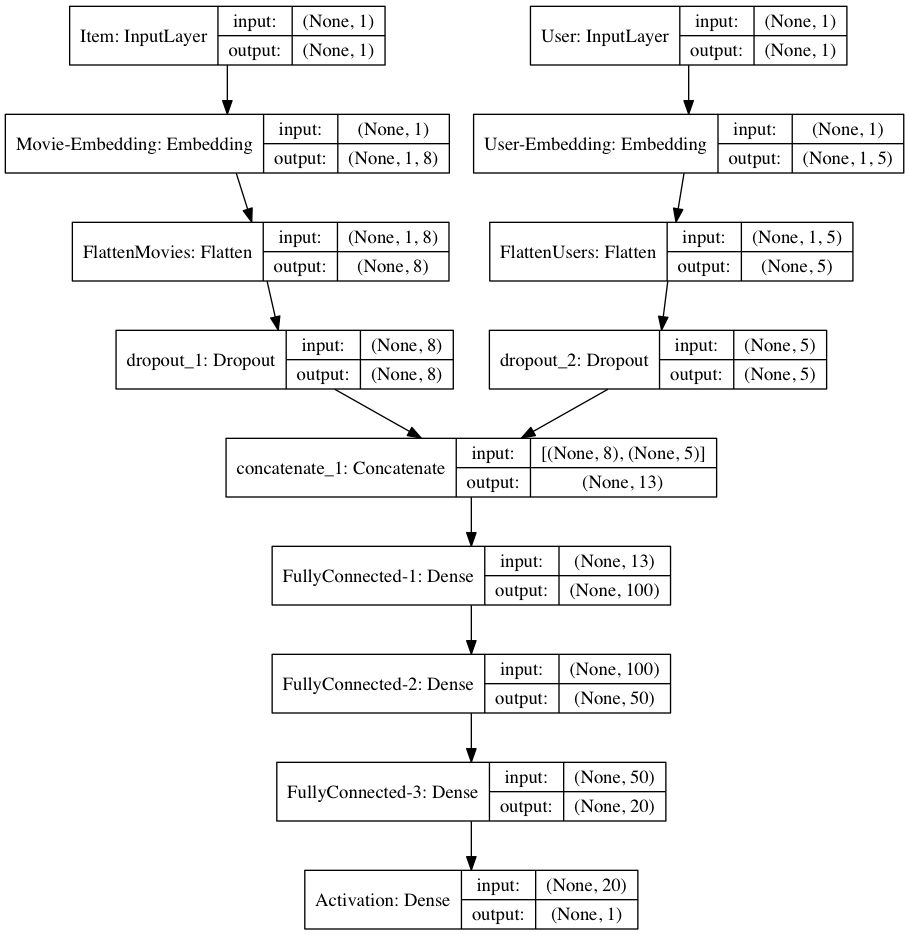
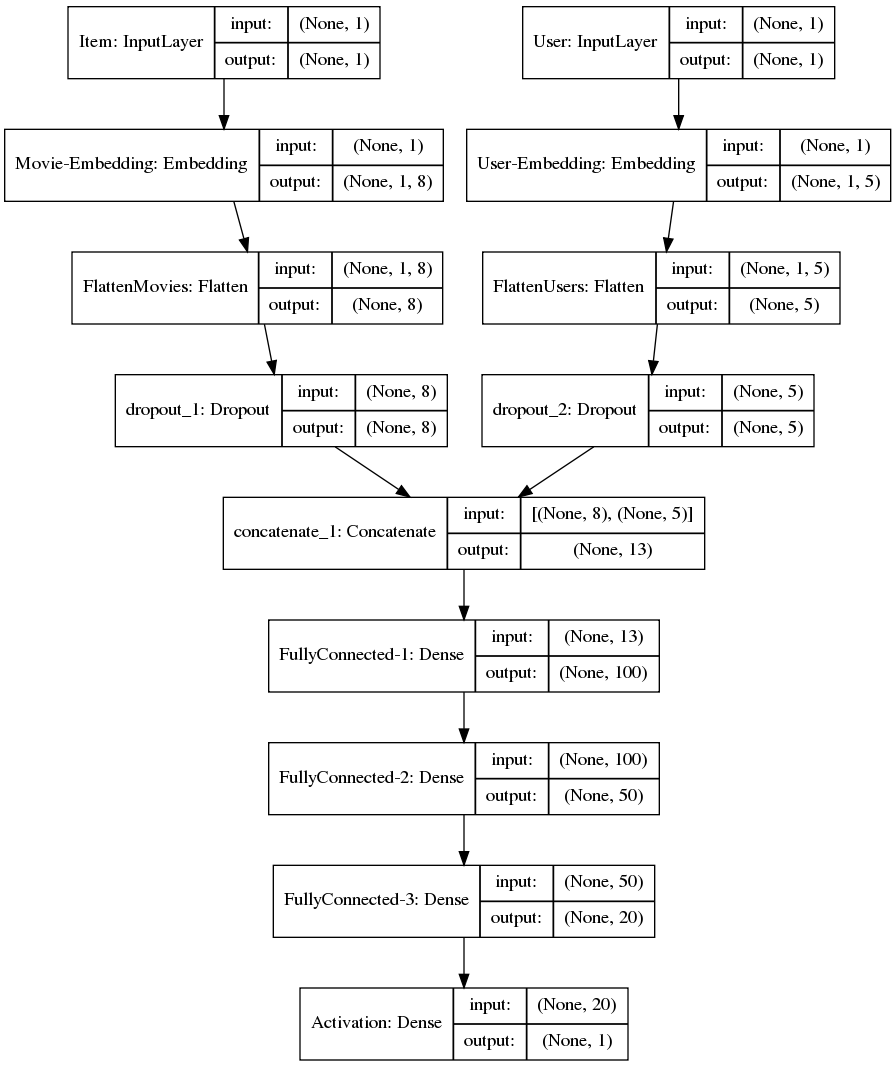
adding user model

Changed region(s): [[0.125, 0.2171, 0.9375, 1.0], [0.0, 0.0, 0.5, 0.3102], [0.5312, 0.0, 1.0, 0.1861]]

diff --git a/Code/train.py b/Code/train.py
@@ -1,0 +1,87 @@
+import pandas as pd
+from sklearn.model_selection import train_test_split
+from MF_nn import MF_nonnegative
+import numpy as np
+from sklearn.metrics import mean_absolute_error
+from sklearn.metrics import accuracy_score, f1_score, precision_score, recall_score
+from keras.utils import plot_model
+
+
+def loading_GHSO_data(path_file, name):
+    if name == "user_question":
+        dataset = pd.read_csv(path_file, sep=',',
+                              names="stackoverflow_user_id,stackoverflow_question_id,relevant".split(","))
+        dataset.stackoverflow_user_id = dataset.user_id.astype('category').cat.codes.values
+        dataset.stackoverflow_question_id = dataset.stackoverflow_question_id.astype('category').cat.codes.values
+
+        return dataset
+    elif name == "user_repository":
+        dataset = pd.read_csv(path_file, sep=',', names="github_user_id,github_repository_id,relevant".split(","))
+        return dataset
+    else:
+        print "Unknown data category"
+        exit()
+
+
+if __name__ == "__main__":
+    # dataset = pd.read_csv("./data/ml-100k/u.data", sep='\t', names="user_id,item_id,rating,timestamp".split(","))
+    # dataset.user_id = dataset.user_id.astype('category').cat.codes.values
+    # dataset.item_id = dataset.item_id.astype('category').cat.codes.values
+    # train, test = train_test_split(dataset, test_size=0.2)
+    # n_users, n_movies = len(dataset.user_id.unique()), len(dataset.item_id.unique())
+    # n_latent_factors_user = 5
+    # n_latent_factors_movie = 8
+    # print n_users, n_movies
+    #
+    # mf_nn = MF_nonnegative(n_user=n_users, n_item=n_movies, n_hidden=64, n_latent_ftr=8)
+    # mf_nn.build_graph(model="user_item")
+    # mf_nn.model.summary()
+    # history = mf_nn.model.fit([train.user_id, train.item_id], train.rating, epochs=20, verbose=0)
+    # y_hat_2 = np.round(mf_nn.model.predict([test.user_id, test.item_id]), 0)
+    # y_true = test.rating
+    # print(mean_absolute_error(y_true, y_hat_2))
+    # print(mean_absolute_error(y_true, mf_nn.model.predict([test.user_id, test.item_id])))
+
+    # dataset = pd.read_csv("./data/SO_GH/user_question_sample.csv", sep=',',
+    #                       names="stackoverflow_user_id,stackoverflow_question_id,relevant".split(","))
+    # dataset.stackoverflow_user_id = dataset.stackoverflow_user_id.astype('category').cat.codes.values
+    # dataset.stackoverflow_question_id = dataset.stackoverflow_question_id.astype('category').cat.codes.values
+    # train, test = train_test_split(dataset, test_size=0.1)
+    # n_users, n_questions = len(dataset.stackoverflow_user_id.unique()), len(dataset.stackoverflow_question_id.unique())
+    #
+    # mf_nn = MF_nonnegative(n_user=n_users, n_item=n_questions, n_hidden=64, n_latent_ftr=128)
+    # mf_nn.build_graph(model="user_item")
+    # mf_nn.model.summary()
+    # # plot_model(mf_nn.model, to_file="model_user_question.png", show_shapes=True, show_layer_names=True)
+    # # mf_nn.model.summary()
+    # # exit()
+    # history = mf_nn.model.fit([train.stackoverflow_user_id, train.stackoverflow_question_id], train.relevant, epochs=1,
+    #                           verbose=1)
+    # y_pred = np.round(mf_nn.model.predict([test.stackoverflow_user_id, test.stackoverflow_question_id]), 0)
+    # y_true = test.relevant
+    # print "accuracy: ", accuracy_score(y_true=y_true, y_pred=y_pred)
+    # print "precision: ", precision_score(y_true=y_true, y_pred=y_pred)
+    # print "recall: ", recall_score(y_true=y_true, y_pred=y_pred)
+    # print "F1: ", f1_score(y_true=y_true, y_pred=y_pred)
+
+    dataset = pd.read_csv("./data/SO_GH/user_repository_sample.csv", sep=',',
+                          names="github_user_id,github_repository_id,relevant".split(","))
+    dataset.github_user_id = dataset.github_user_id.astype('category').cat.codes.values
+    dataset.github_repository_id = dataset.github_repository_id.astype('category').cat.codes.values
+    train, test = train_test_split(dataset, test_size=0.1)
+    n_users, n_questions = len(dataset.github_user_id.unique()), len(dataset.github_repository_id.unique())
+
+    mf_nn = MF_nonnegative(n_user=n_users, n_item=n_questions, n_hidden=64, n_latent_ftr=128)
+    mf_nn.build_graph(model="user_item")
+    mf_nn.model.summary()
+    plot_model(mf_nn.model, to_file="model_user_repository.png", show_shapes=True, show_layer_names=True)
+    mf_nn.model.summary()
+    exit()
+    history = mf_nn.model.fit([train.github_user_id, train.github_repository_id], train.relevant, epochs=1,
+                              verbose=1)
+    y_pred = np.round(mf_nn.model.predict([test.github_user_id, test.github_repository_id]), 0)
+    y_true = test.relevant
+    print "accuracy: ", accuracy_score(y_true=y_true, y_pred=y_pred)
+    print "precision: ", precision_score(y_true=y_true, y_pred=y_pred)
+    print "recall: ", recall_score(y_true=y_true, y_pred=y_pred)
+    print "F1: ", f1_score(y_true=y_true, y_pred=y_pred)

diff --git a/Code/MF_nn.py b/Code/MF_nn.py
@@ -1,3 +1,52 @@
+import keras
+from keras.optimizers import Adam
+from keras.constraints import non_neg
+
+
 class MF_nonnegative(object):
-    def __init__(self):
-        print "hello"
+    def __init__(self, n_user, n_item, n_latent_ftr, n_hidden):
+        self.n_user = n_user
+        self.n_item = n_item
+        self.n_latent_ftr = n_latent_ftr
+        self.n_hidden = n_hidden
+
+    def _create_embedding_item(self):
+        self.item_input = keras.layers.Input(shape=[1], name='Item')
+        self.item_embedding = keras.layers.Embedding(self.n_item + 1, self.n_latent_ftr,
+                                                     name='Item-Embedding', embeddings_constraint=non_neg())(
+            self.item_input)
+        self.item_vec = keras.layers.Flatten(name='FlattenItems')(self.item_embedding)
+        self.item_vec = keras.layers.Dropout(0.2)(self.item_vec)
+
+    def _create_embedding_user(self):
+        self.user_input = keras.layers.Input(shape=[1], name='User')
+        self.user_vec = keras.layers.Flatten(name='FlattenUsers')(
+            keras.layers.Embedding(self.n_user + 1, self.n_latent_ftr, name='User-Embedding',
+                                   embeddings_constraint=non_neg())(self.user_input))
+        self.user_vec = keras.layers.Dropout(0.2)(self.user_vec)
+
+    def _create_concatenate_user_item(self):
+        self.concat = keras.layers.concatenate([self.item_vec, self.user_vec])
+
+    def _create_hidden_layer(self):
+        dense = keras.layers.Dense(self.n_hidden, activation='relu', name='Activation')(self.concat)
+        self.dense = keras.layers.Dropout(0.2, name='Dropout')(dense)
+
+    def _create_output_layer(self):
+        self.result = keras.layers.Dense(1, activation='sigmoid', name='output')(self.dense)
+        self.adam = Adam(lr=0.005)
+
+    def _create_model_user_item(self):
+        self.model = keras.models.Model([self.user_input, self.item_input], self.result)
+        self.model.compile(optimizer=self.adam, loss='binary_crossentropy', metrics=['accuracy'])
+
+    def build_graph(self, model):
+        if model == "user_item":
+            self._create_embedding_item()
+            self._create_embedding_user()
+            self._create_concatenate_user_item()
+            self._create_hidden_layer()
+            self._create_output_layer()
+            self._create_model_user_item()
+        else:
+            print "You need to input correct model name"

diff --git a/Code/MF-Keras/MF_nn_keras.py b/Code/MF-Keras/MF_nn_keras.py
@@ -47,8 +47,10 @@ model.compile(optimizer=adam, loss='mean_absolute_error')
 plot_model(model, to_file="model_nn.png", show_shapes=True, show_layer_names=True)
 model.summary()
 
-history = model.fit([train.user_id, train.item_id], train.rating, epochs=50, verbose=0)
+history = model.fit([train.user_id, train.item_id], train.rating, epochs=5, verbose=0)
 y_hat_2 = np.round(model.predict([test.user_id, test.item_id]), 0)
+print y_hat_2
+exit()
 y_true = test.rating
 print(mean_absolute_error(y_true, y_hat_2))
 print(mean_absolute_error(y_true, model.predict([test.user_id, test.item_id])))
